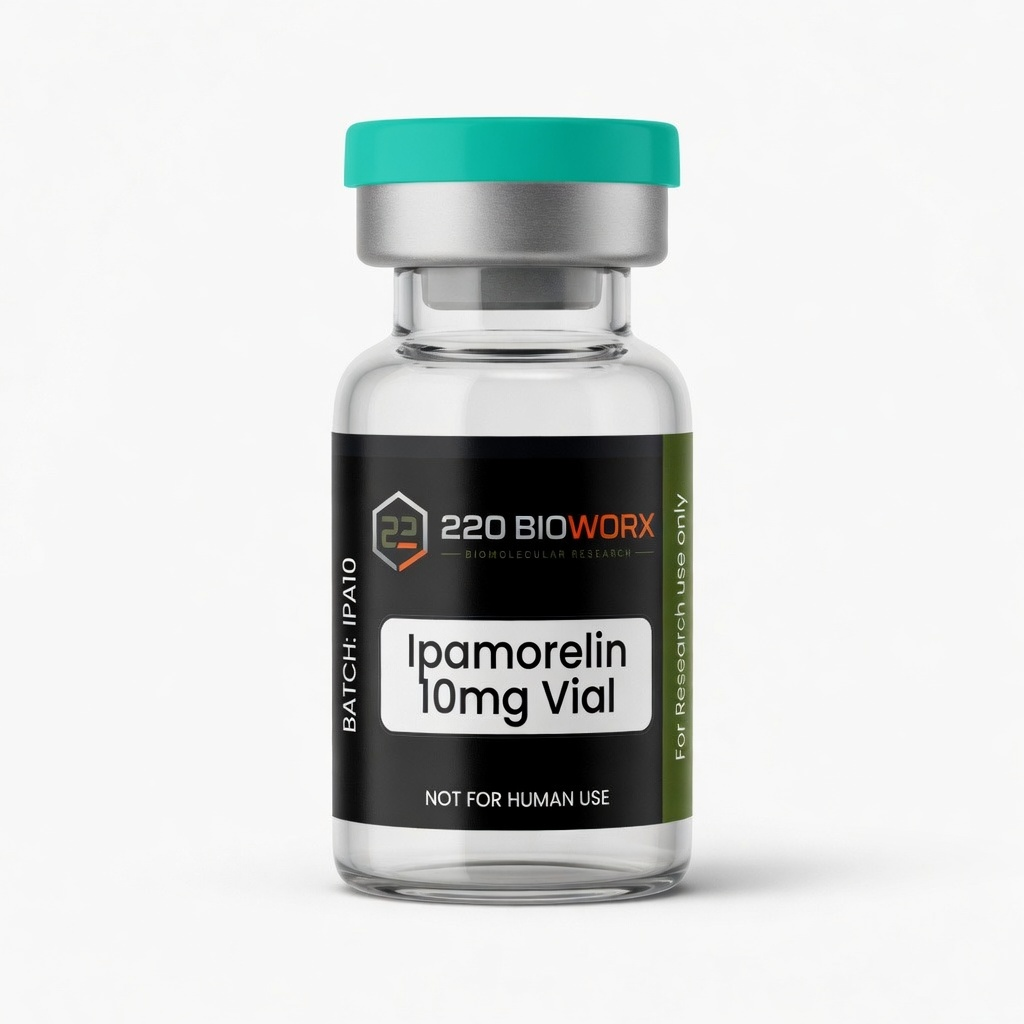
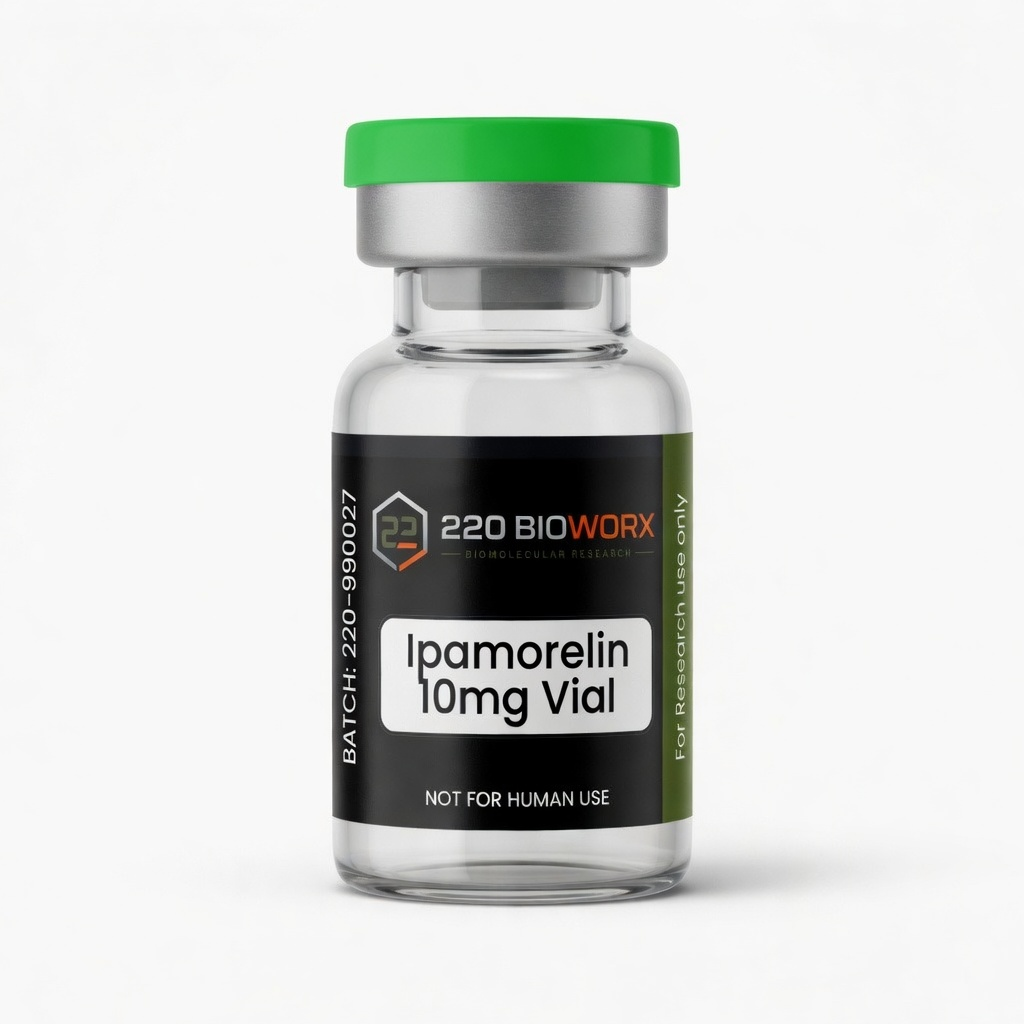
Ipamorelin: studio primary from actual green-cap vials, photo secondary

diff --git a/products.html b/products.html
@@ -10,8 +10,8 @@
   <link rel="canonical" href="https://www.220bioworx.com/products.html" />
   <meta http-equiv="Cache-Control" content="no-cache, no-store, must-revalidate" />
   <meta http-equiv="Pragma" content="no-cache" />
-  <script src="analytics.js?v=20260831f"></script>
-  <script src="seo-org.jsonld.js?v=20260831f" defer></script>
+  <script src="analytics.js?v=20260831g"></script>
+  <script src="seo-org.jsonld.js?v=20260831g" defer></script>
   <link rel="icon" href="favicon.ico" sizes="any" />
   <link rel="icon" type="image/png" sizes="32x32" href="favicon-32.png" />
   <link rel="icon" type="image/png" sizes="16x16" href="favicon-16.png" />
@@ -19,9 +19,9 @@
   <link rel="preconnect" href="https://fonts.googleapis.com" />
   <link rel="preconnect" href="https://fonts.gstatic.com" crossorigin />
   <link href="https://fonts.googleapis.com/css2?family=Inter:wght@400;500;600;700&family=Poppins:wght@500;600;700;800&display=swap" rel="stylesheet" />
-  <script src="products-data.js?v=20260831f"></script>
-  <script src="cart.js?v=20260831f"></script>
-  <script src="payment-config.js?v=20260831f"></script>
+  <script src="products-data.js?v=20260831g"></script>
+  <script src="cart.js?v=20260831g"></script>
+  <script src="payment-config.js?v=20260831g"></script>
   <style>
     :root {
       --carbon: #080B0D;

diff --git a/cart.html b/cart.html
@@ -9,8 +9,8 @@
   <meta name="referrer" content="origin" />
   <meta name="robots" content="noindex, follow" />
   <link rel="canonical" href="https://www.220bioworx.com/cart.html" />
-  <script src="analytics.js?v=20260831f"></script>
-  <script src="seo-org.jsonld.js?v=20260831f" defer></script>
+  <script src="analytics.js?v=20260831g"></script>
+  <script src="seo-org.jsonld.js?v=20260831g" defer></script>
   <link rel="icon" href="favicon.ico" sizes="any" />
   <link rel="icon" type="image/png" sizes="32x32" href="favicon-32.png" />
   <link rel="icon" type="image/png" sizes="16x16" href="favicon-16.png" />
@@ -18,8 +18,8 @@
   <link rel="preconnect" href="https://fonts.googleapis.com" />
   <link rel="preconnect" href="https://fonts.gstatic.com" crossorigin />
   <link href="https://fonts.googleapis.com/css2?family=Inter:wght@400;500;600;700&family=Poppins:wght@500;600;700;800&display=swap" rel="stylesheet" />
-  <script src="payment-config.js?v=20260831f"></script>
-  <script src="cart.js?v=20260831f"></script>
+  <script src="payment-config.js?v=20260831g"></script>
+  <script src="cart.js?v=20260831g"></script>
   <style>
     :root {
       --carbon: #080B0D;

diff --git a/event.html b/event.html
@@ -8,14 +8,14 @@
   <meta name="theme-color" content="#080B0D" />
   <meta name="robots" content="noindex, follow" />
   <link rel="canonical" href="https://www.220bioworx.com/event.html" />
-  <script src="analytics.js?v=20260831f"></script>
+  <script src="analytics.js?v=20260831g"></script>
   <link rel="icon" href="favicon.ico" sizes="any" />
   <link rel="icon" type="image/png" sizes="32x32" href="favicon-32.png" />
   <link rel="apple-touch-icon" href="apple-touch-icon.png" />
   <link rel="preconnect" href="https://fonts.googleapis.com" />
   <link rel="preconnect" href="https://fonts.gstatic.com" crossorigin />
   <link href="https://fonts.googleapis.com/css2?family=Inter:wght@400;500;600;700&family=Poppins:wght@600;700;800&display=swap" rel="stylesheet" />
-  <script src="products-data.js?v=20260831f"></script>
+  <script src="products-data.js?v=20260831g"></script>
   <style>
     :root {
       --carbon: #080B0D;

diff --git a/coa.html b/coa.html
@@ -8,8 +8,8 @@
   <meta name="robots" content="noindex, nofollow" />
   <meta name="theme-color" content="#080B0D" />
   <link rel="canonical" href="https://www.220bioworx.com/coa.html" />
-  <script src="analytics.js?v=20260831f"></script>
-  <script src="coa-data.js?v=20260831f"></script>
+  <script src="analytics.js?v=20260831g"></script>
+  <script src="coa-data.js?v=20260831g"></script>
   <link rel="icon" href="favicon.ico" sizes="any" />
   <link rel="icon" type="image/png" sizes="32x32" href="favicon-32.png" />
   <link rel="apple-touch-icon" href="apple-touch-icon.png" />

diff --git a/products-data.js b/products-data.js
@@ -228,8 +228,9 @@ window.BW_PRODUCTS = [
     category: "GHS pathway research",
     unitPrice: 50,
     unit: "vial",
-    image: "images/products/ipamorelin-10-photo.png",
+    image: "images/products/ipamorelin-10-light.jpeg",
     images: [
+      "images/products/ipamorelin-10-light.jpeg",
       "images/products/ipamorelin-10-photo.png",
       {
         src: "images/products/coas/ipamorelin-10-coa-p1.png?v=20260831d",
